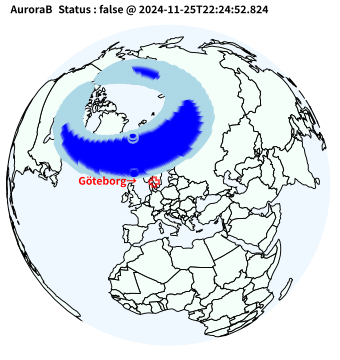
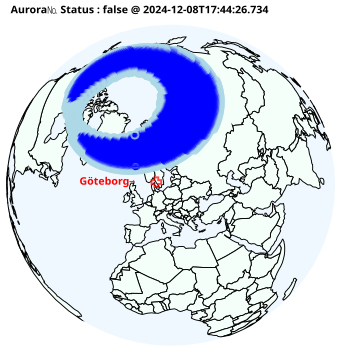
20241208174440 added aur.html

diff --git a/aur.html b/aur.html
@@ -7,6 +7,6 @@
 <body>
     <h1>Aurora Watch</h1>
     <img src="a.png" alt="Aurora Image" style="width:100%;max-width:600px;">
-    <p>Aurora Level 🌌= (0.0) was observed. (2024-11-25T22:24:52.824)</p>
+    <p>Aurora Level 🌌= (0.5) was observed. (2024-12-08T17:44:26.734)</p>
 </body>
 </html>
